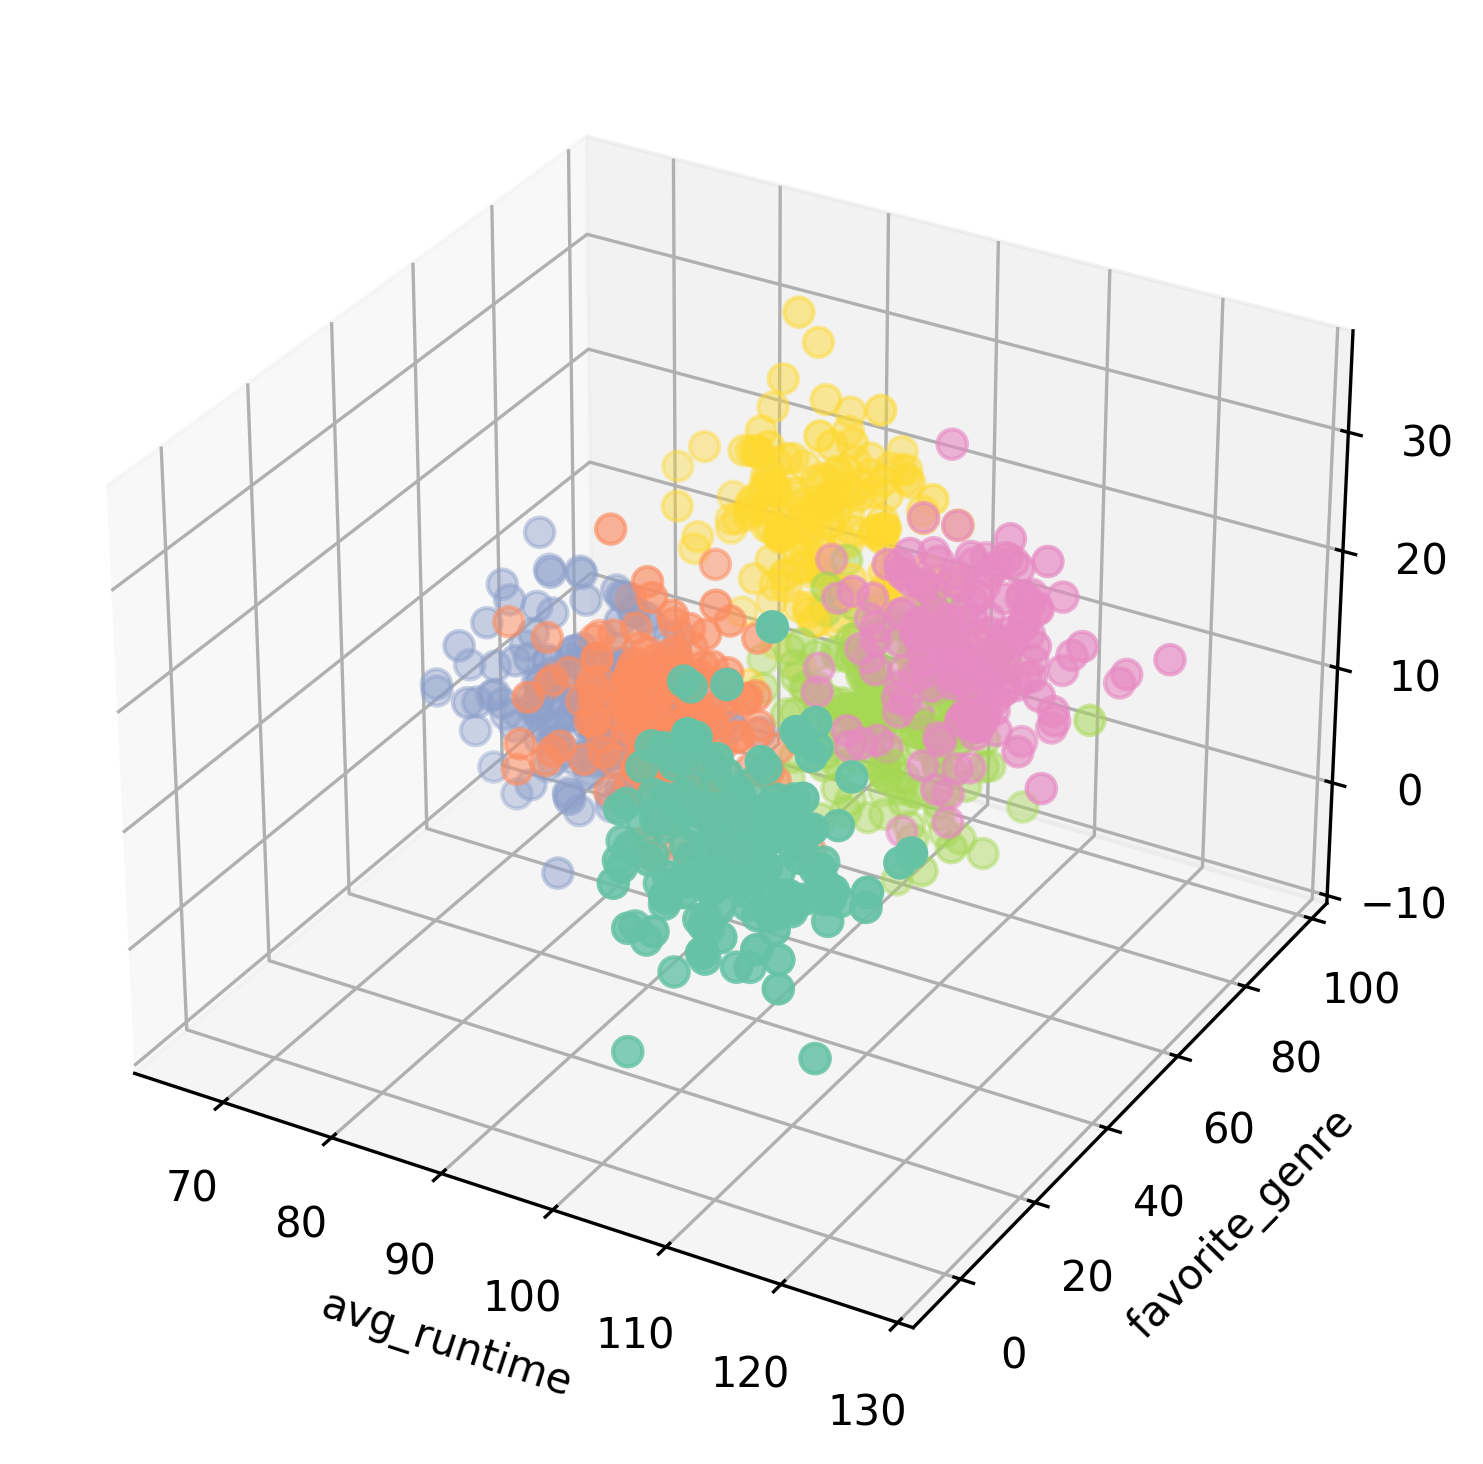
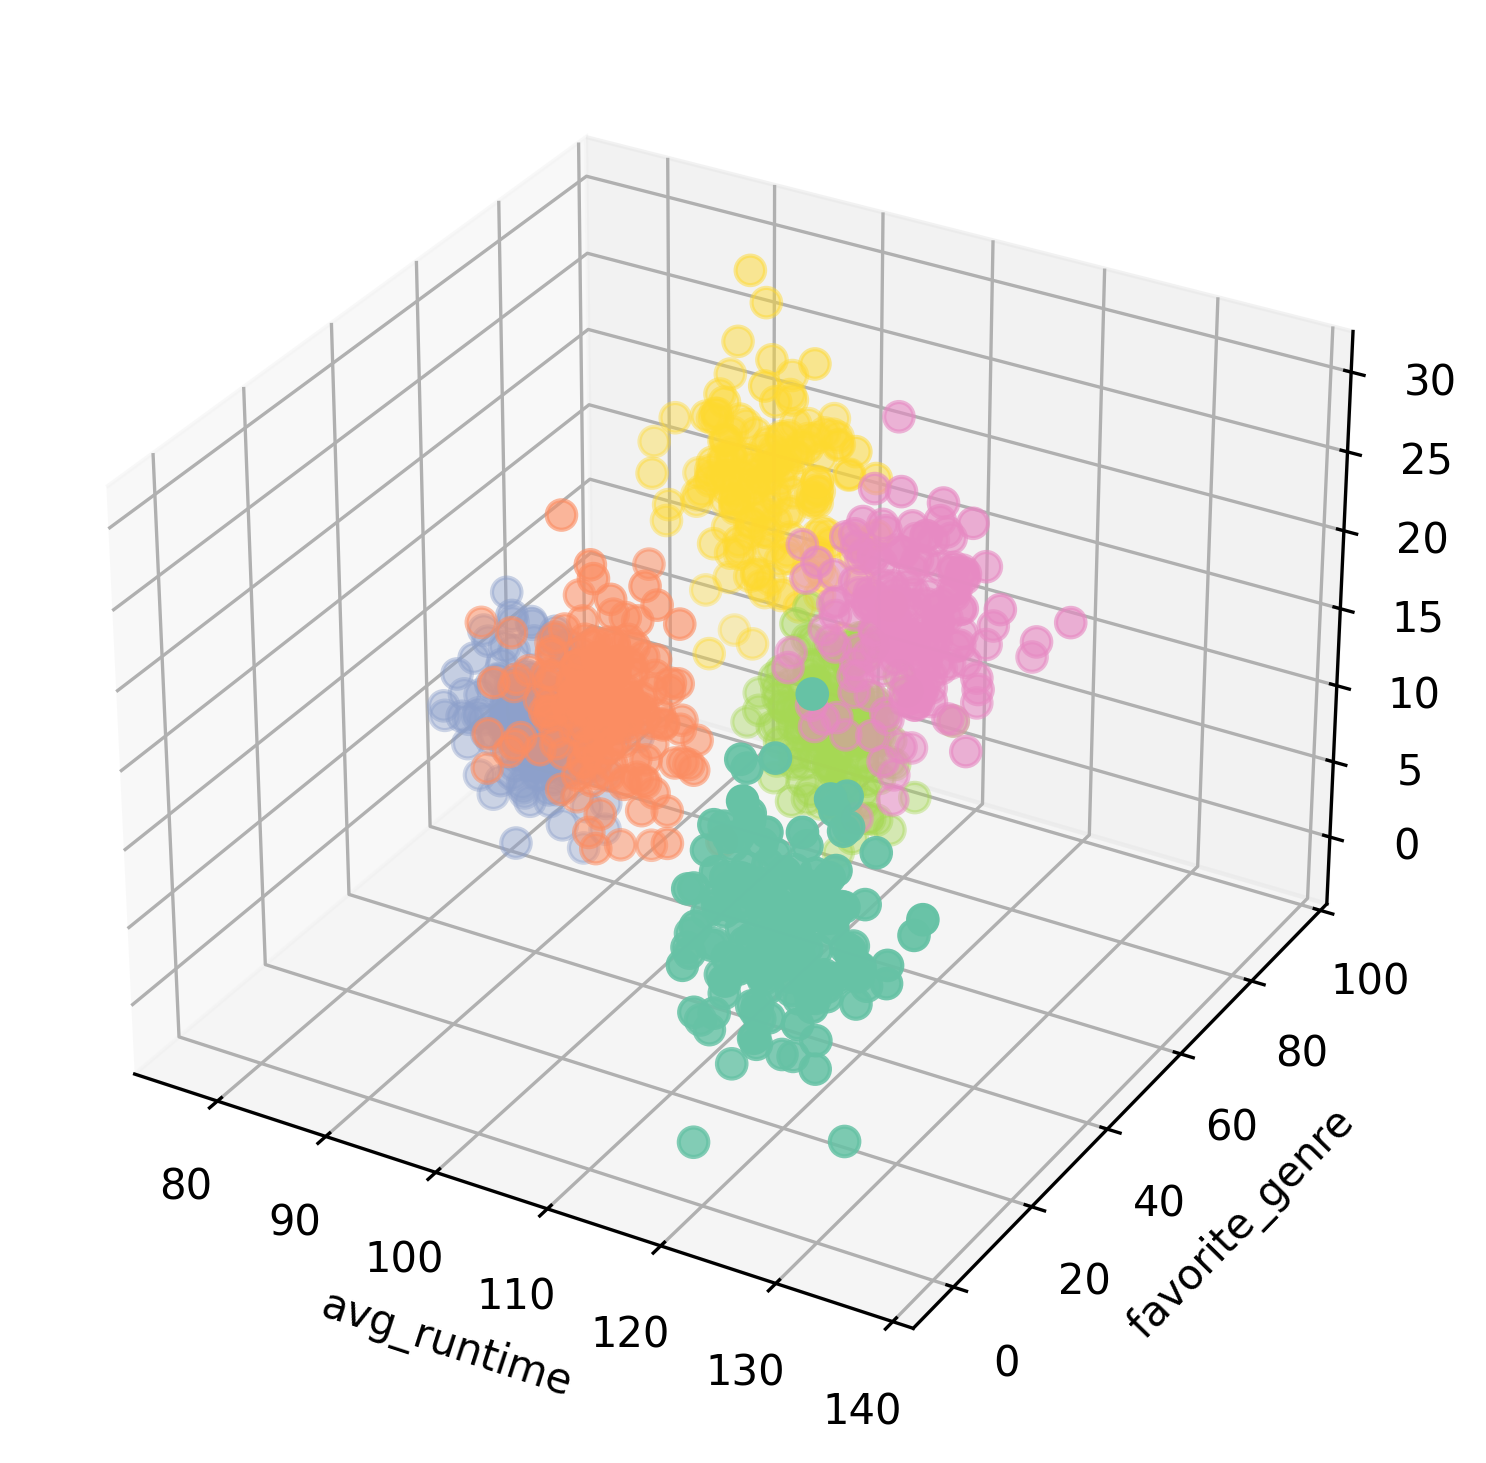
Оценка кластеризации. Определение оптимального количества кластеров

diff --git a/generating_synthetic_users.py b/generating_synthetic_users.py
@@ -246,6 +246,66 @@ class UsersGenerator:
 
 # класс Визуализатор
 class Visualizer:
+    # визуализация метода "локтя" для определения оптимального количества кластеров
+    @staticmethod
+    def elbow_method(data_X):
+        wcss = []
+        for i in range(1, 11):
+            model = KMeans(n_clusters=i, random_state=0, n_init="auto")
+            model.fit(data_X)
+            wcss.append(model.inertia_)
+
+        plt.plot(range(1, 11), wcss)
+        plt.title('Метод локтя (Elbow Method)')
+        plt.xlabel('k - количество кластеров')
+        plt.ylabel('WCSS')
+        plt.grid()
+        plt.savefig("elbow_method.png", dpi=300, bbox_inches='tight')
+        plt.show()
+
+    # оценка по индексу Дэвиса-Булдина
+    @staticmethod
+    def davies_bouldin_score_method(data_X):
+        from sklearn.metrics import davies_bouldin_score
+
+        results = {}
+
+        for i in range(2,11):
+            model = KMeans(n_clusters=i, random_state=0, n_init="auto")
+            model.fit(data_X)
+            predicted_clusters = model.fit_predict(data_X)
+            db_index = davies_bouldin_score(data_X, predicted_clusters)
+            print(f"Индекс Дэвиса-Булдина для k = {i}: {db_index}")
+            results.update({i: db_index})
+
+        plt.plot(list(results.keys()), list(results.values()))
+        plt.xlabel("k - количество кластеров")
+        plt.ylabel("Индекс Дэвиса-Булдина (Davies-Boulding Index)")
+        plt.grid()
+        plt.savefig("davies_bouldin_score.png", dpi=300, bbox_inches='tight')
+        plt.show()
+
+    # оценка по силуэтному анализу
+    @staticmethod
+    def silhouette_score_method(data_X):
+        from sklearn.metrics import silhouette_score
+
+        results = {}
+
+        for i in range(2,11):
+            model = KMeans(n_clusters=i, random_state=0, n_init="auto")
+            predicted_clusters = model.fit_predict(data_X)
+            sil_score = silhouette_score(data_X, predicted_clusters)
+            print(f"Силуэтный коэффициент для k = {i}: {sil_score:.3f}")
+            results.update({i: sil_score})
+
+        plt.plot(list(results.keys()), list(results.values()))
+        plt.xlabel("k - количество кластеров")
+        plt.ylabel("Силуэтный коэффициент (Silhouette Score)")
+        plt.grid()
+        plt.savefig("silhouette_score.png", dpi=300, bbox_inches='tight')
+        plt.show()
+
     # вывод диаграммы реальных кластеров пользователей
     @staticmethod
     def plot_2d(df, x, y, cluster_col, colors=None, title=""):
@@ -413,33 +473,33 @@ def main():
     clusters = [
         Cluster(
             name="Любители супергероев",
-            center=[5, 10, 5, 10, 3, 4, 5, 6, 2, 4, 45, 25, 30, 110, 16],
-            std=5
+            center=[5, 15, 8, 15, 1, 2, 3, 15, 25, 35, 40, 30, 35, 125, 12],
+            std=4
         ),
         Cluster(
             name="Любители отечественного кино",
-            center=[45, 35, 45, 70, 4, 5, 6, 5, 1, 0, 35, 20, 25, 90, 12],
-            std=5
+            center=[45, 75, 45, 75, 5, 8, 12, 8, 4, 2, 25, 15, 20, 95, 12],
+            std=4
         ),
         Cluster(
             name="Любители аниме",
-            center=[55, 50, 55, 95, 2, 3, 4, 5, 5, 5, 50, 30, 35, 80, 6],
-            std=5
+            center=[55, 45, 35, 92, 0, 1, 2, 8, 15, 25, 35, 25, 30, 85, 6],
+            std=3
         ),
         Cluster(
             name="Любители криминала",
-            center=[65, 45, 65, 40, 3, 5, 4, 6, 1, 1, 40, 25, 30, 110, 16],
-            std=5
+            center=[65, 55, 55, 35, 3, 5, 8, 12, 8, 4, 35, 22, 28, 115, 16],
+            std=4
         ),
         Cluster(
             name="Любители семейных фильмов",
-            center=[75, 70, 70, 20, 1, 2, 3, 4, 0, 0, 30, 15, 35, 100, 6],
-            std=5
+            center=[75, 85, 65, 25, 2, 4, 6, 10, 12, 6, 20, 12, 18, 105, 6],
+            std=3
         ),
         Cluster(
             name="Любители ужасов",
-            center=[85, 75, 80, 20, 2, 3, 4, 5, 1, 1, 40, 20, 30, 90, 18],
-            std=5
+            center=[85, 65, 75, 20, 1, 2, 4, 6, 8, 12, 30, 18, 25, 95, 18],
+            std=4
         )
     ]
     features = [
@@ -452,6 +512,10 @@ def main():
     generator = UsersGenerator(clusters=clusters, n_users=1000, features=features)
     data = generator.generate_data()
     print("Сгенерированы пользователи.")
+    print("Определение оптимального числа кластеров.")
+    Visualizer.elbow_method(data_X=data[generator.features])
+    Visualizer.davies_bouldin_score_method(data_X=data[generator.features])
+    Visualizer.silhouette_score_method(data_X=data[generator.features])
     centroids = generator.fit_kmeans()
 
     # подготовим цвета по кластерам
@@ -481,30 +545,30 @@ def main():
         colors=colors
     )
     print("Визуализированы кластеры.")
-    movies = list(Movie.objects.all())
+    # movies = list(Movie.objects.all())
 
-    user_data = []
-    numeric_cols = [
-        'decade_count_70', 'decade_count_80', 'decade_count_90', 'decade_count_00', 'decade_count_10', 'decade_count_20',
-        'count_ratings', 'max_rating_count', 'favorites_count', 'avg_runtime', 'avg_age_rating'
-    ]
-    data = normalize_data(data, category_maps, numeric_cols)
-    for idx, row in data.iterrows():
-        activity = generator.generate_user_activity(row, movies)
-        user_data.append({
-            "user_id": idx + 1,
-            "cluster": row["Real_Cluster"],
-            "profile": row.to_dict(),
-            "favorites": activity["favorites_ids"],
-            "ratings": activity["ratings"]
-        })
-        if idx % 10 == 0:
-            print(f"Сгенерировано оценок и избранных фильмов для {idx+1} пользователей.")
-        if idx >= N_users:
-            break
+    # user_data = []
+    # numeric_cols = [
+    #     'decade_count_70', 'decade_count_80', 'decade_count_90', 'decade_count_00', 'decade_count_10', 'decade_count_20',
+    #     'count_ratings', 'max_rating_count', 'favorites_count', 'avg_runtime', 'avg_age_rating'
+    # ]
+    # data = normalize_data(data, category_maps, numeric_cols)
+    # for idx, row in data.iterrows():
+    #     activity = generator.generate_user_activity(row, movies)
+    #     user_data.append({
+    #         "user_id": idx + 1,
+    #         "cluster": row["Real_Cluster"],
+    #         "profile": row.to_dict(),
+    #         "favorites": activity["favorites_ids"],
+    #         "ratings": activity["ratings"]
+    #     })
+    #     if idx % 10 == 0:
+    #         print(f"Сгенерировано оценок и избранных фильмов для {idx+1} пользователей.")
+    #     if idx >= N_users:
+    #         break
 
-    generator.print_user_info(user_data[-1])
-    generator.save_data_to_db(user_data)
+    # generator.print_user_info(user_data[-1])
+    # generator.save_data_to_db(user_data)
 
 if __name__ == "__main__":
     main()
